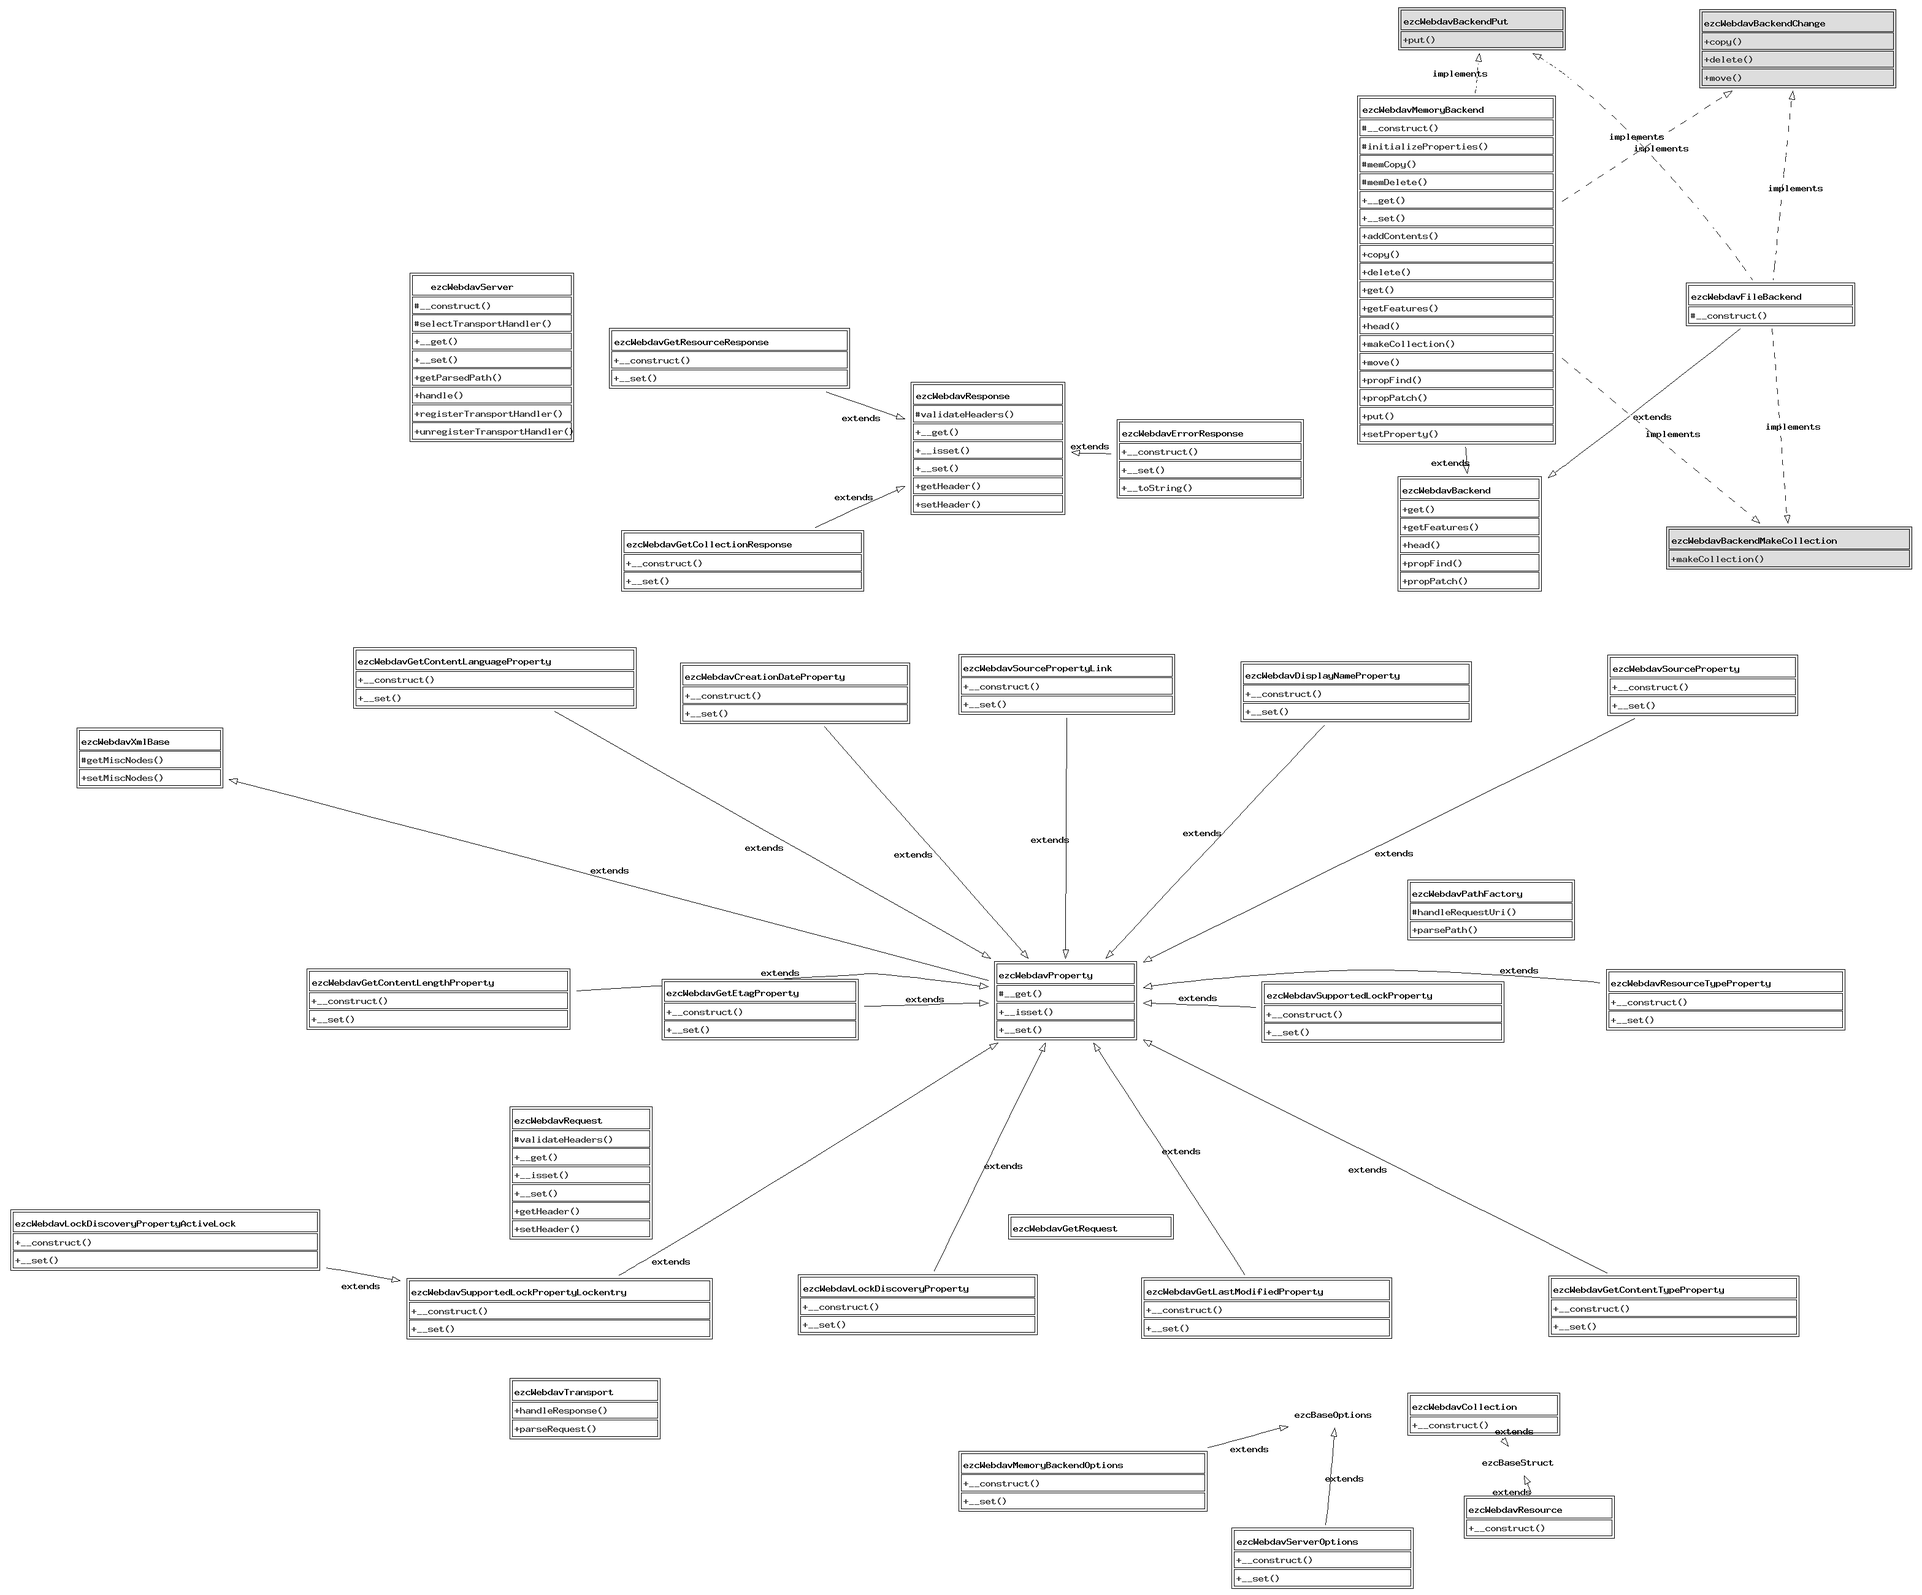
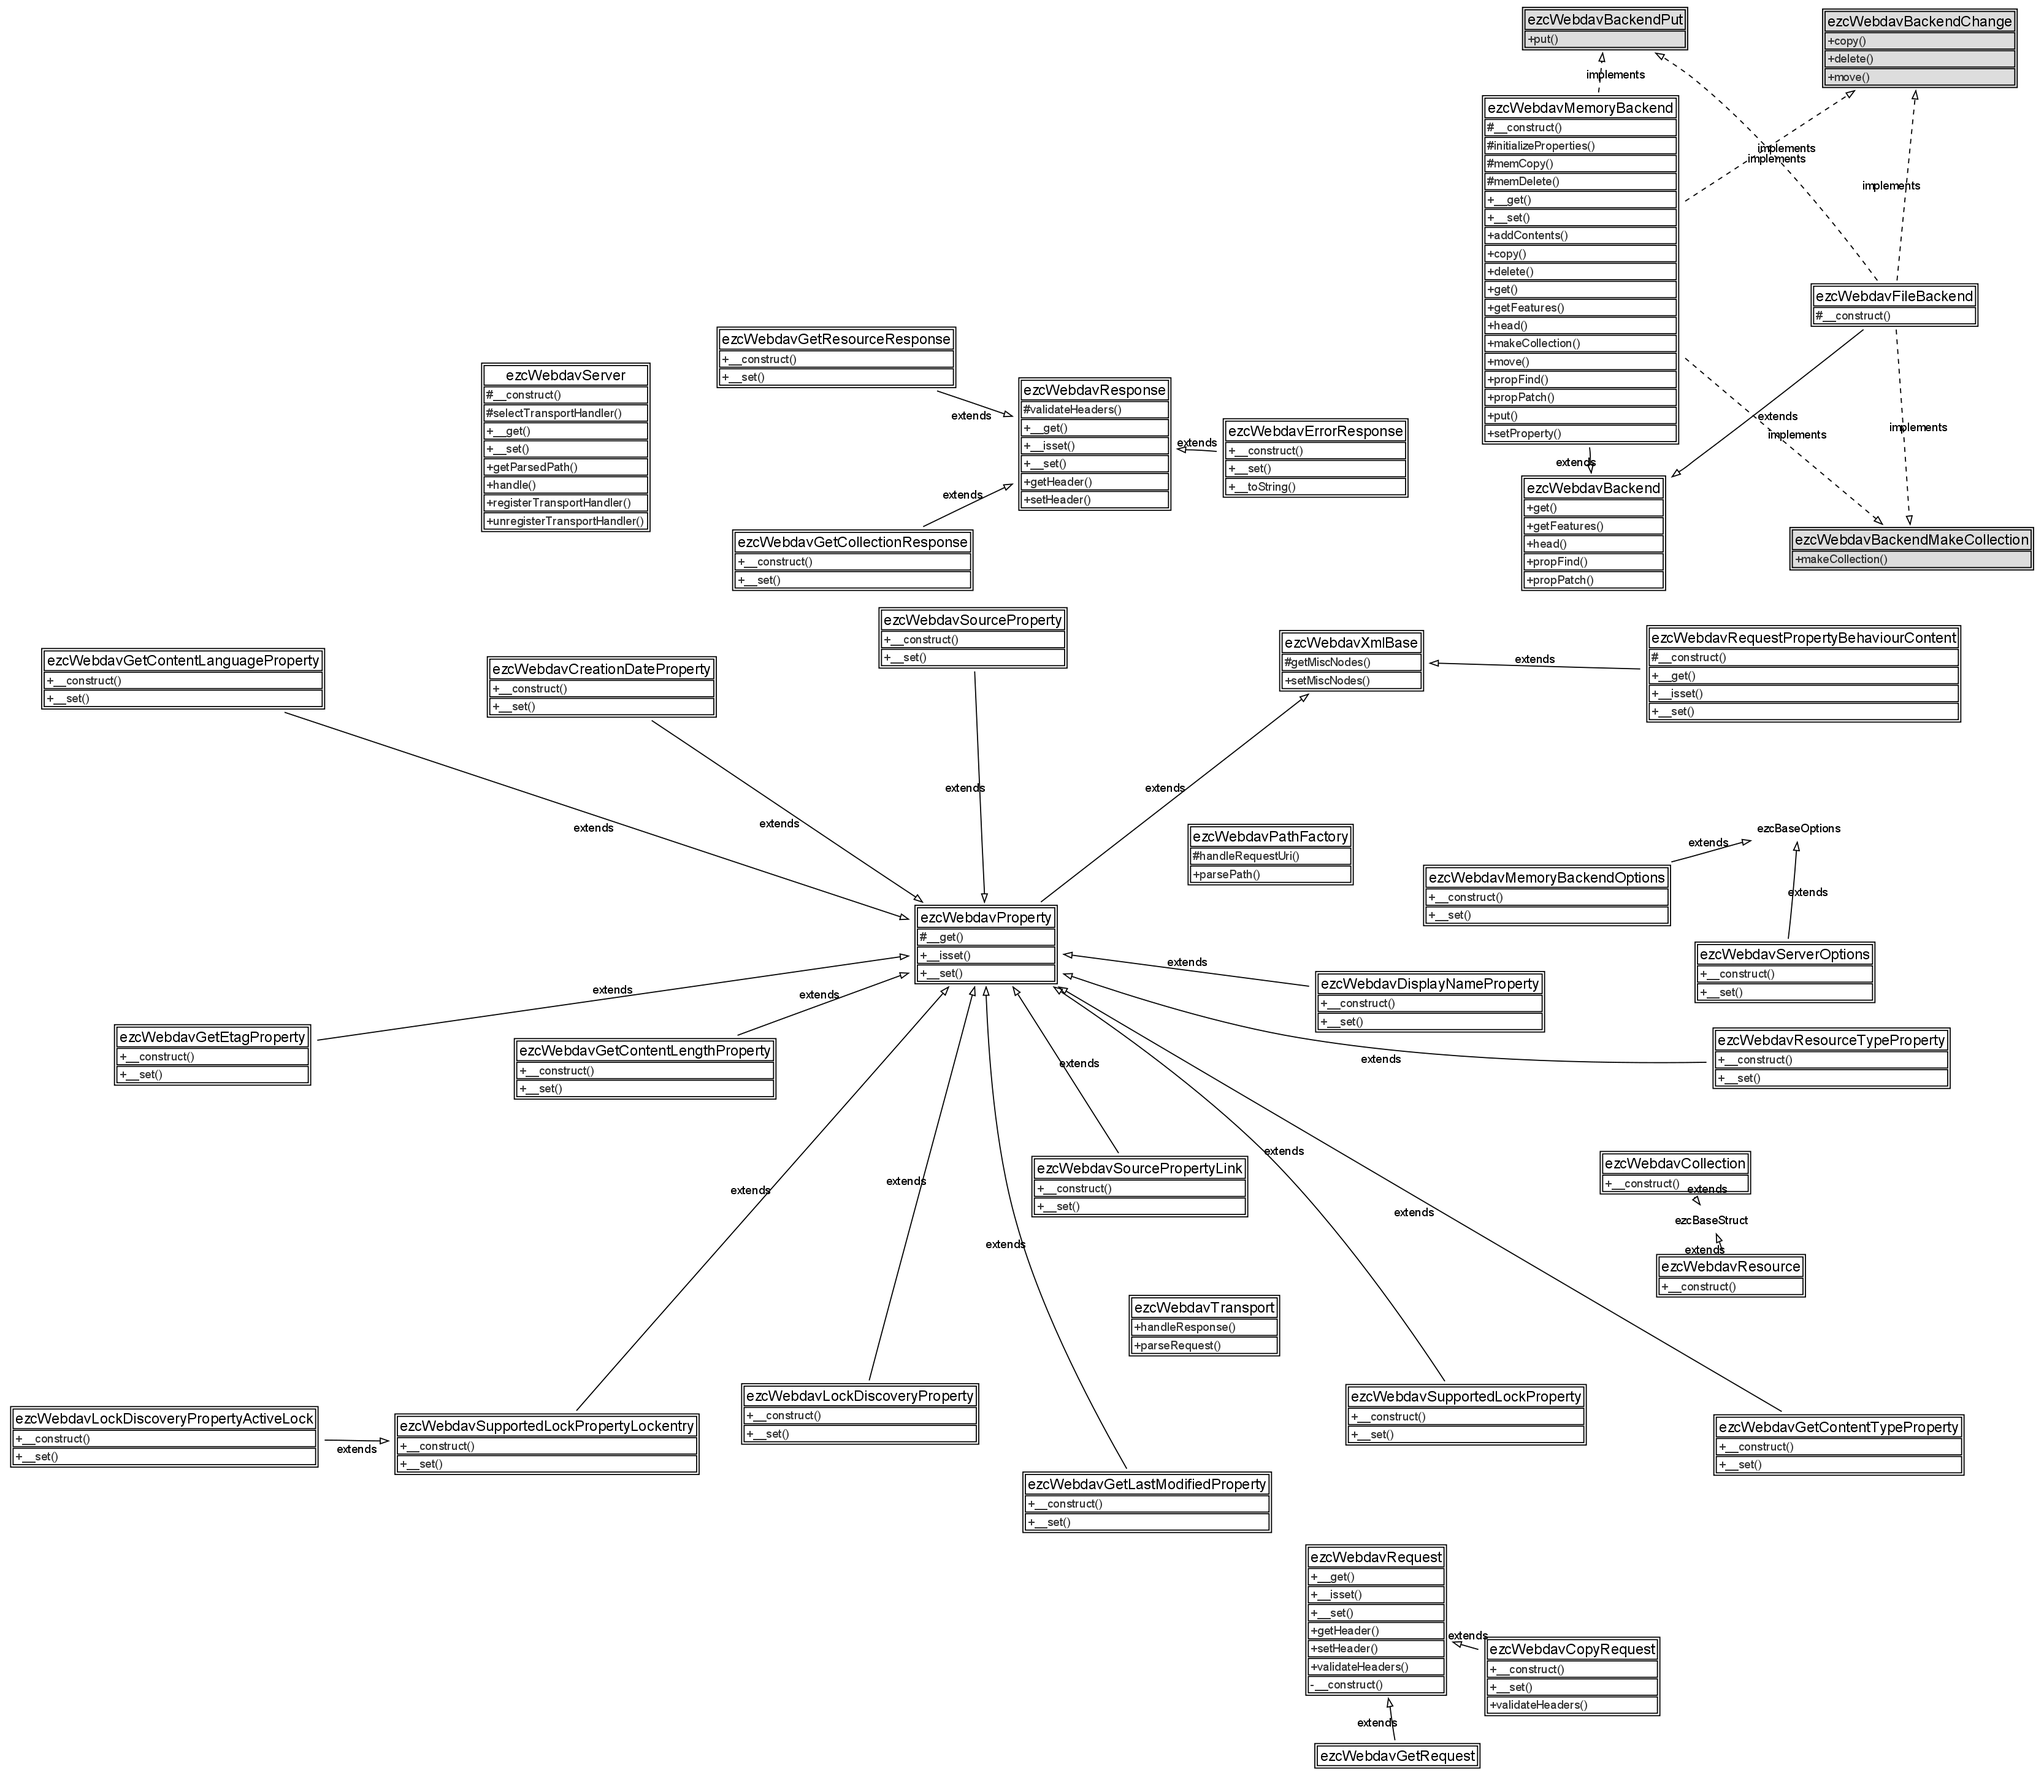
- Fixed autoload.

diff --git a/src/webdav_autoload.php b/src/webdav_autoload.php
@@ -12,6 +12,9 @@
 return array(
     'ezcWebdavException'                       => 'Webdav/exceptions/exception.php',
     'ezcWebdavBrokenRequestUriException'       => 'Webdav/exceptions/broken_request_uri.php',
+    'ezcWebdavHeadersNotValidatedException'    => 'Webdav/exceptions/headers_not_validated.php',
+    'ezcWebdavInvalidHeaderException'          => 'Webdav/exceptions/invalid_header.php',
+    'ezcWebdavMissingHeaderException'          => 'Webdav/exceptions/missing_header.php',
     'ezcWebdavMissingServerVariableException'  => 'Webdav/exceptions/misssing_server_variable.php',
     'ezcWebdavNotTransportHandlerException'    => 'Webdav/exceptions/no_transport_handler.php',
     'ezcWebdavXmlBase'                         => 'Webdav/interfaces/xml_base.php',
@@ -20,9 +23,11 @@ return array(
     'ezcWebdavBackendChange'                   => 'Webdav/interfaces/backend/change.php',
     'ezcWebdavBackendMakeCollection'           => 'Webdav/interfaces/backend/make_collection.php',
     'ezcWebdavBackendPut'                      => 'Webdav/interfaces/backend/put.php',
+    'ezcWebdavRequest'                         => 'Webdav/interfaces/request.php',
     'ezcWebdavResponse'                        => 'Webdav/interfaces/response.php',
     'ezcWebdavSupportedLockPropertyLockentry'  => 'Webdav/properties/supportedlock_lockentry.php',
     'ezcWebdavCollection'                      => 'Webdav/structs/collection.php',
+    'ezcWebdavCopyRequest'                     => 'Webdav/request/copy.php',
     'ezcWebdavCreationDateProperty'            => 'Webdav/properties/creationdate.php',
     'ezcWebdavDisplayNameProperty'             => 'Webdav/properties/displayname.php',
     'ezcWebdavErrorResponse'                   => 'Webdav/response/error.php',
@@ -40,7 +45,7 @@ return array(
     'ezcWebdavMemoryBackend'                   => 'Webdav/backend/memory.php',
     'ezcWebdavMemoryBackendOptions'            => 'Webdav/options/backend_memory_options.php',
     'ezcWebdavPathFactory'                     => 'Webdav/path_factory.php',
-    'ezcWebdavRequest'                         => 'Webdav/interfaces/request.php',
+    'ezcWebdavRequestPropertyBehaviourContent' => 'Webdav/request/content/property_behaviour.php',
     'ezcWebdavResource'                        => 'Webdav/structs/resource.php',
     'ezcWebdavResourceTypeProperty'            => 'Webdav/properties/resourcetype.php',
     'ezcWebdavServer'                          => 'Webdav/server.php',

diff --git a/src/request/get.php b/src/request/get.php
@@ -1,6 +1,6 @@
 <?php
 /**
- * File containing the class representing a GET request to the webdav server.
+ * File containing the class representing a GET request to the WebDAV server.
  *
  * @package Webdav
  * @version //autogentag//
@@ -8,7 +8,7 @@
  * @license http://ez.no/licenses/new_bsd New BSD License
  */
 /**
- * Struct containing all relevant information about a webdav GET request.
+ * Struct-like class representing all relevant information about a webdav GET request.
  *
  * @version //autogentag//
  * @package Webdav
